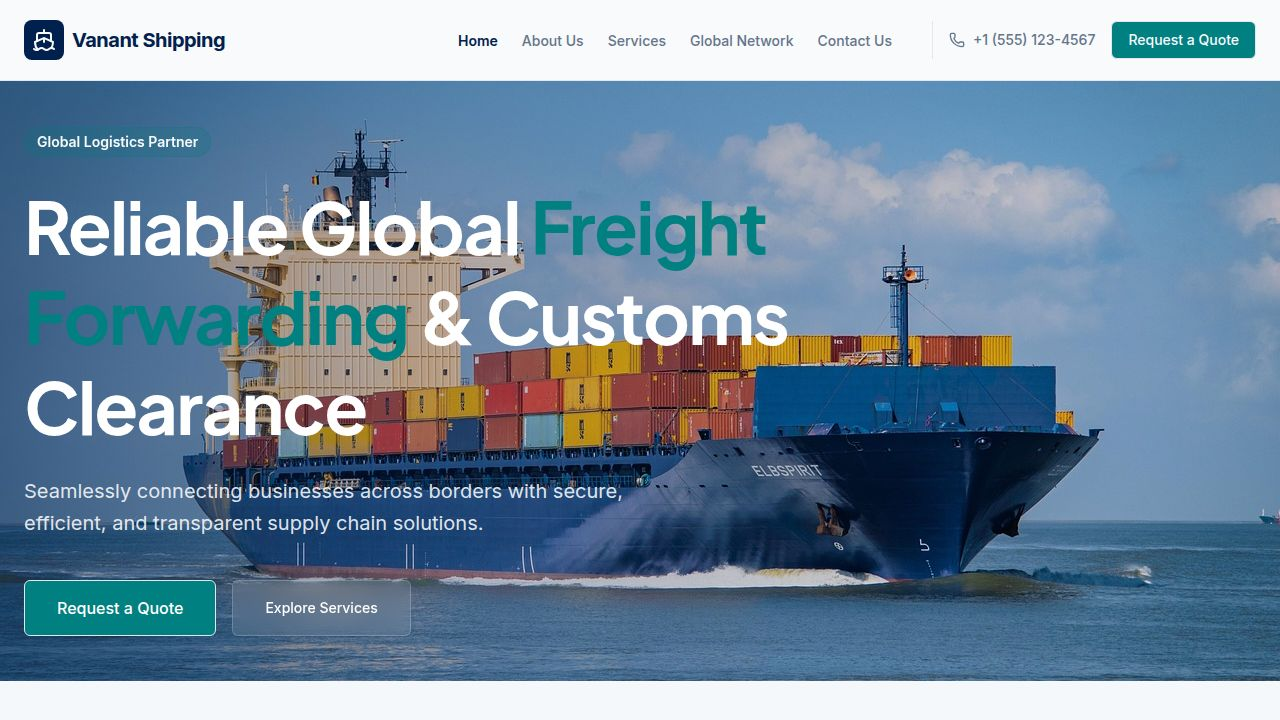
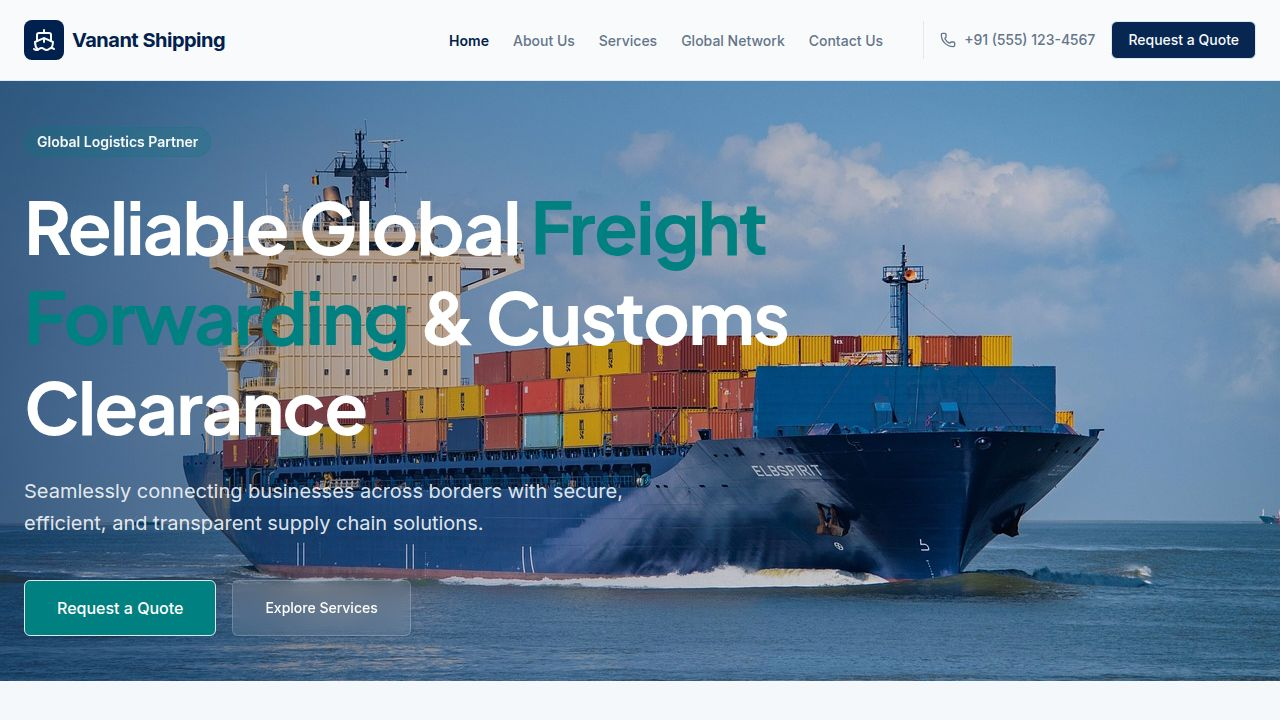
Update request a quote button color and contact number
Update the "Request a Quote" button background color and the contact phone number displayed in the navbar.

Replit-Commit-Author: Agent
Replit-Commit-Session-Id: b889bfbd-37d8-4320-8e8f-4e0c3bf64861
Replit-Commit-Checkpoint-Type: full_checkpoint
Replit-Commit-Event-Id: 5cf0719f-77d9-4511-a528-cfc378723827
Replit-Commit-Screenshot-Url: https://storage.googleapis.com/screenshot-production-us-central1/5c6d6e28-164f-4f9b-ab6c-3776152ac6be/b889bfbd-37d8-4320-8e8f-4e0c3bf64861/3h0AuWy
Replit-Helium-Checkpoint-Created: true

Changed region(s): [[0.3438, 0.0306, 0.6875, 0.0611], [0.8438, 0.0306, 1.0, 0.0917], [0.7188, 0.0306, 0.7812, 0.0611]]

diff --git a/client/src/components/layout/Navbar.tsx b/client/src/components/layout/Navbar.tsx
@@ -47,9 +47,9 @@ export default function Navbar() {
             <div className="flex items-center gap-4 ml-2 border-l pl-4 shrink-0">
               <div className="flex items-center gap-2 text-sm font-medium text-muted-foreground whitespace-nowrap">
                 <Phone className="h-4 w-4" />
-                <span>+1 (555) 123-4567</span>
+                <span>+91 99799 23477</span>
               </div>
-              <Button asChild className="bg-secondary hover:bg-secondary/90 whitespace-nowrap">
+              <Button asChild className="bg-[#072752] hover:bg-secondary/90 whitespace-nowrap">
                 <Link href="/contact">Request a Quote</Link>
               </Button>
             </div>
